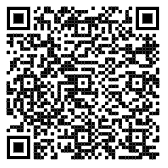
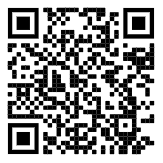
Documentação finalizada

diff --git a/README.md b/README.md
@@ -16,9 +16,9 @@ Construir uma aplicação fullstack capaz de exibir uma lista de livros cadastra
 
 - Web App: https://fullstack-challenge-1.juliano988.repl.co/
 - API: https://fullstack-challenge.juliano988.repl.co/
-- APK Download: 
+- APK Download: https://github.com/juliano988/fullstack-challenge/raw/master/apk/BookApp.apk
 
-![image info](assets\app_qr_code.PNG)
+![APK Download](assets\app_qr_code.PNG)
 
 ## Utilização Local
 
